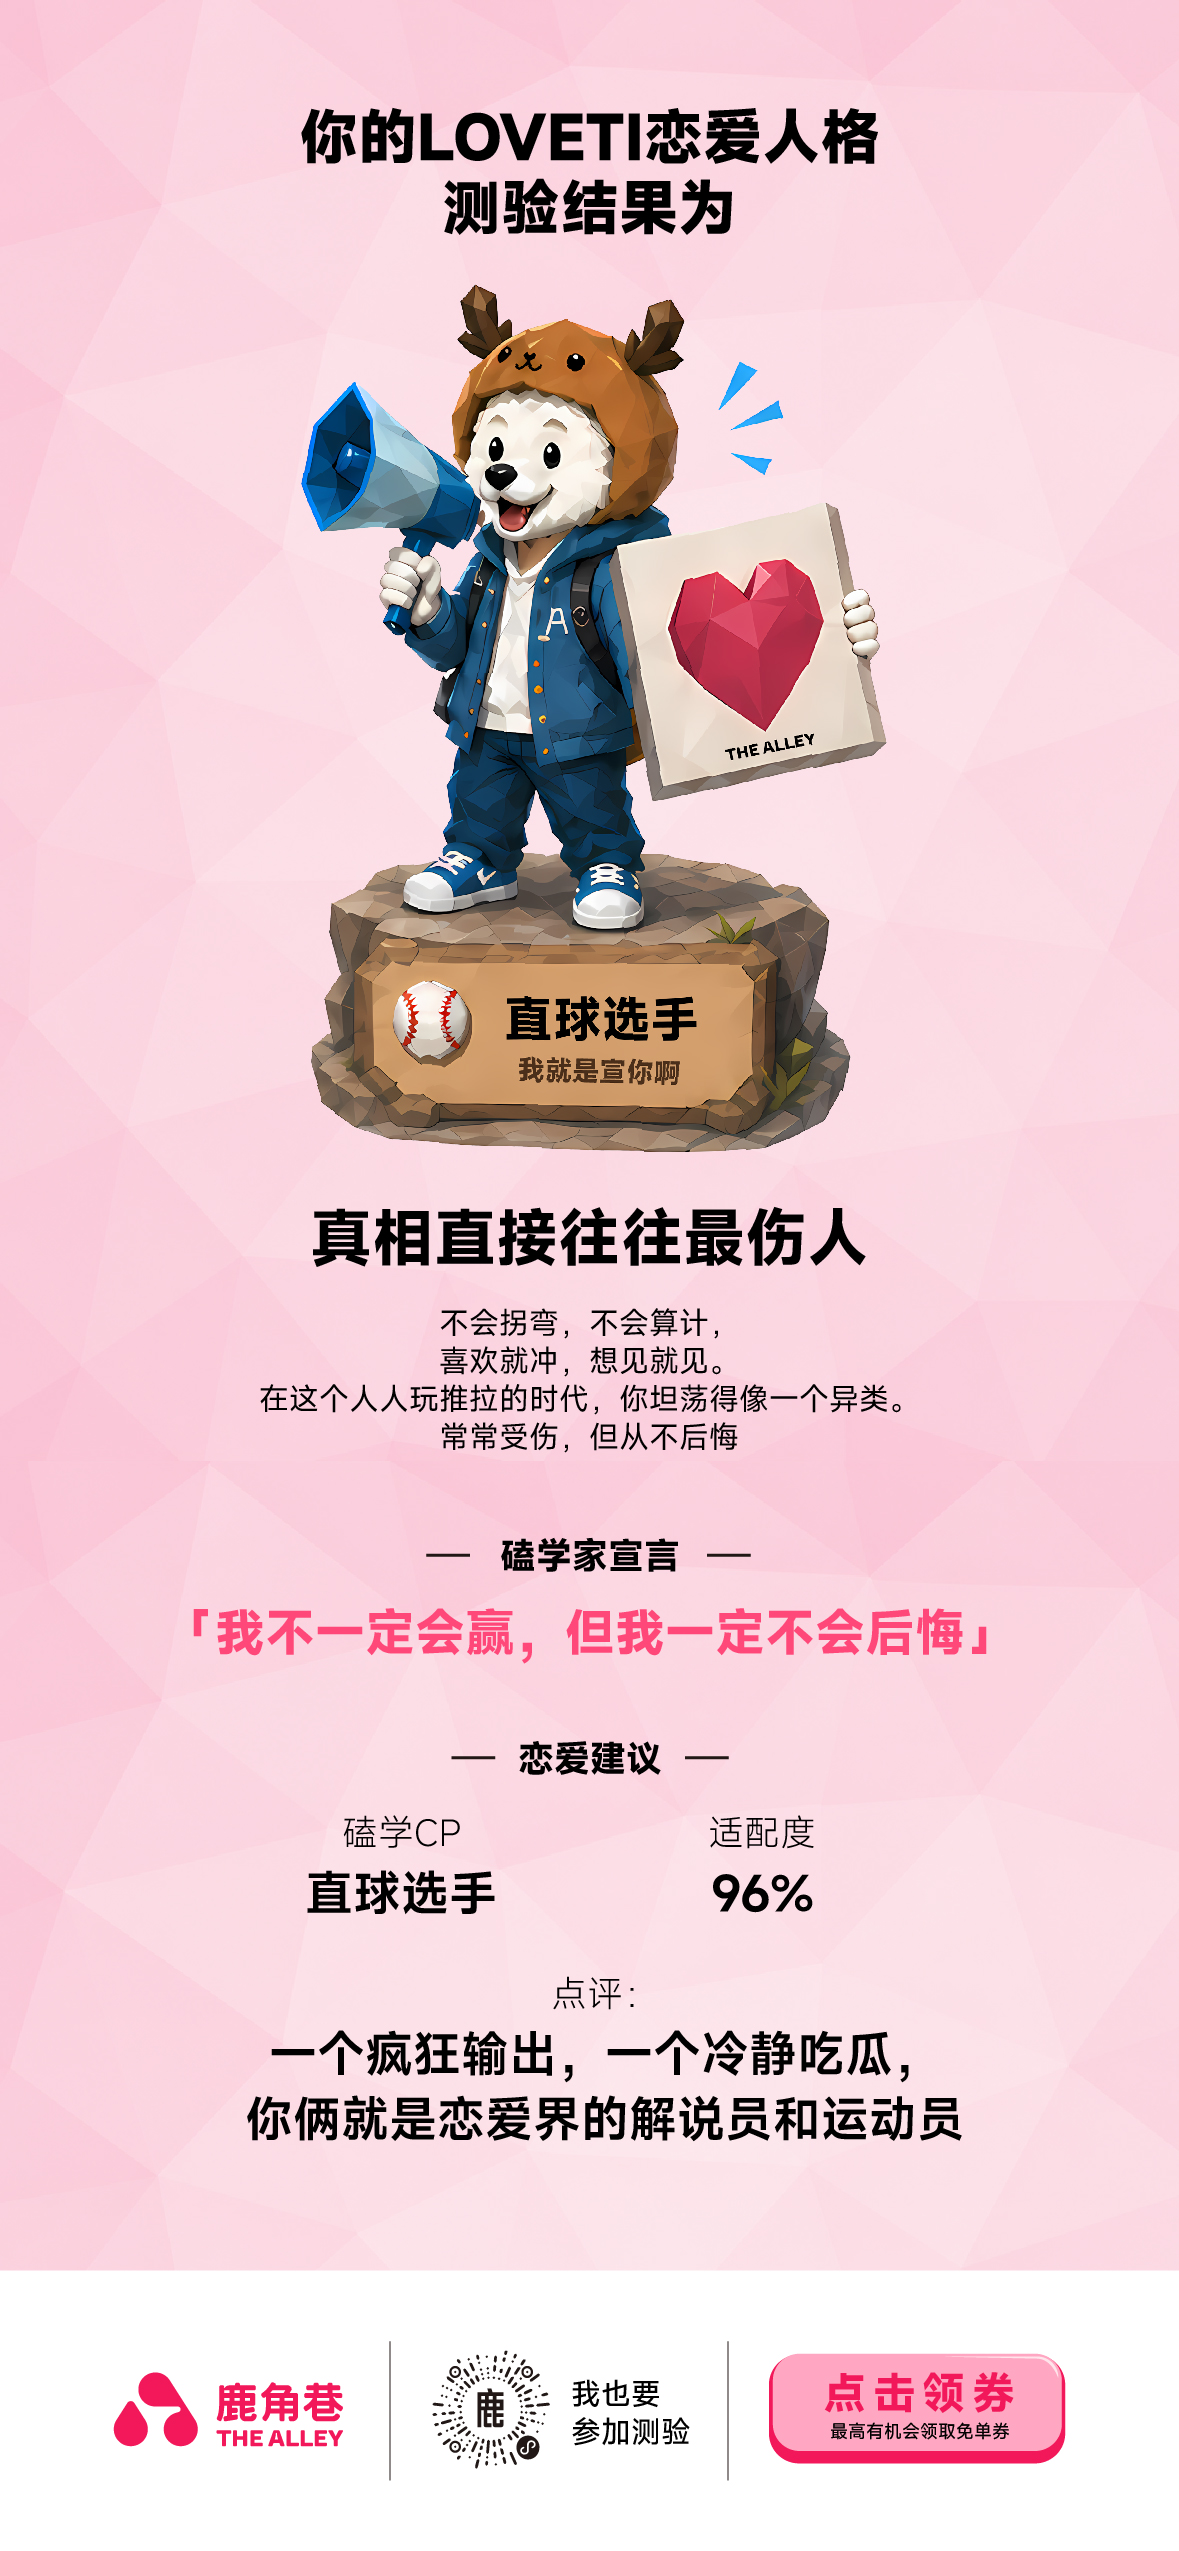
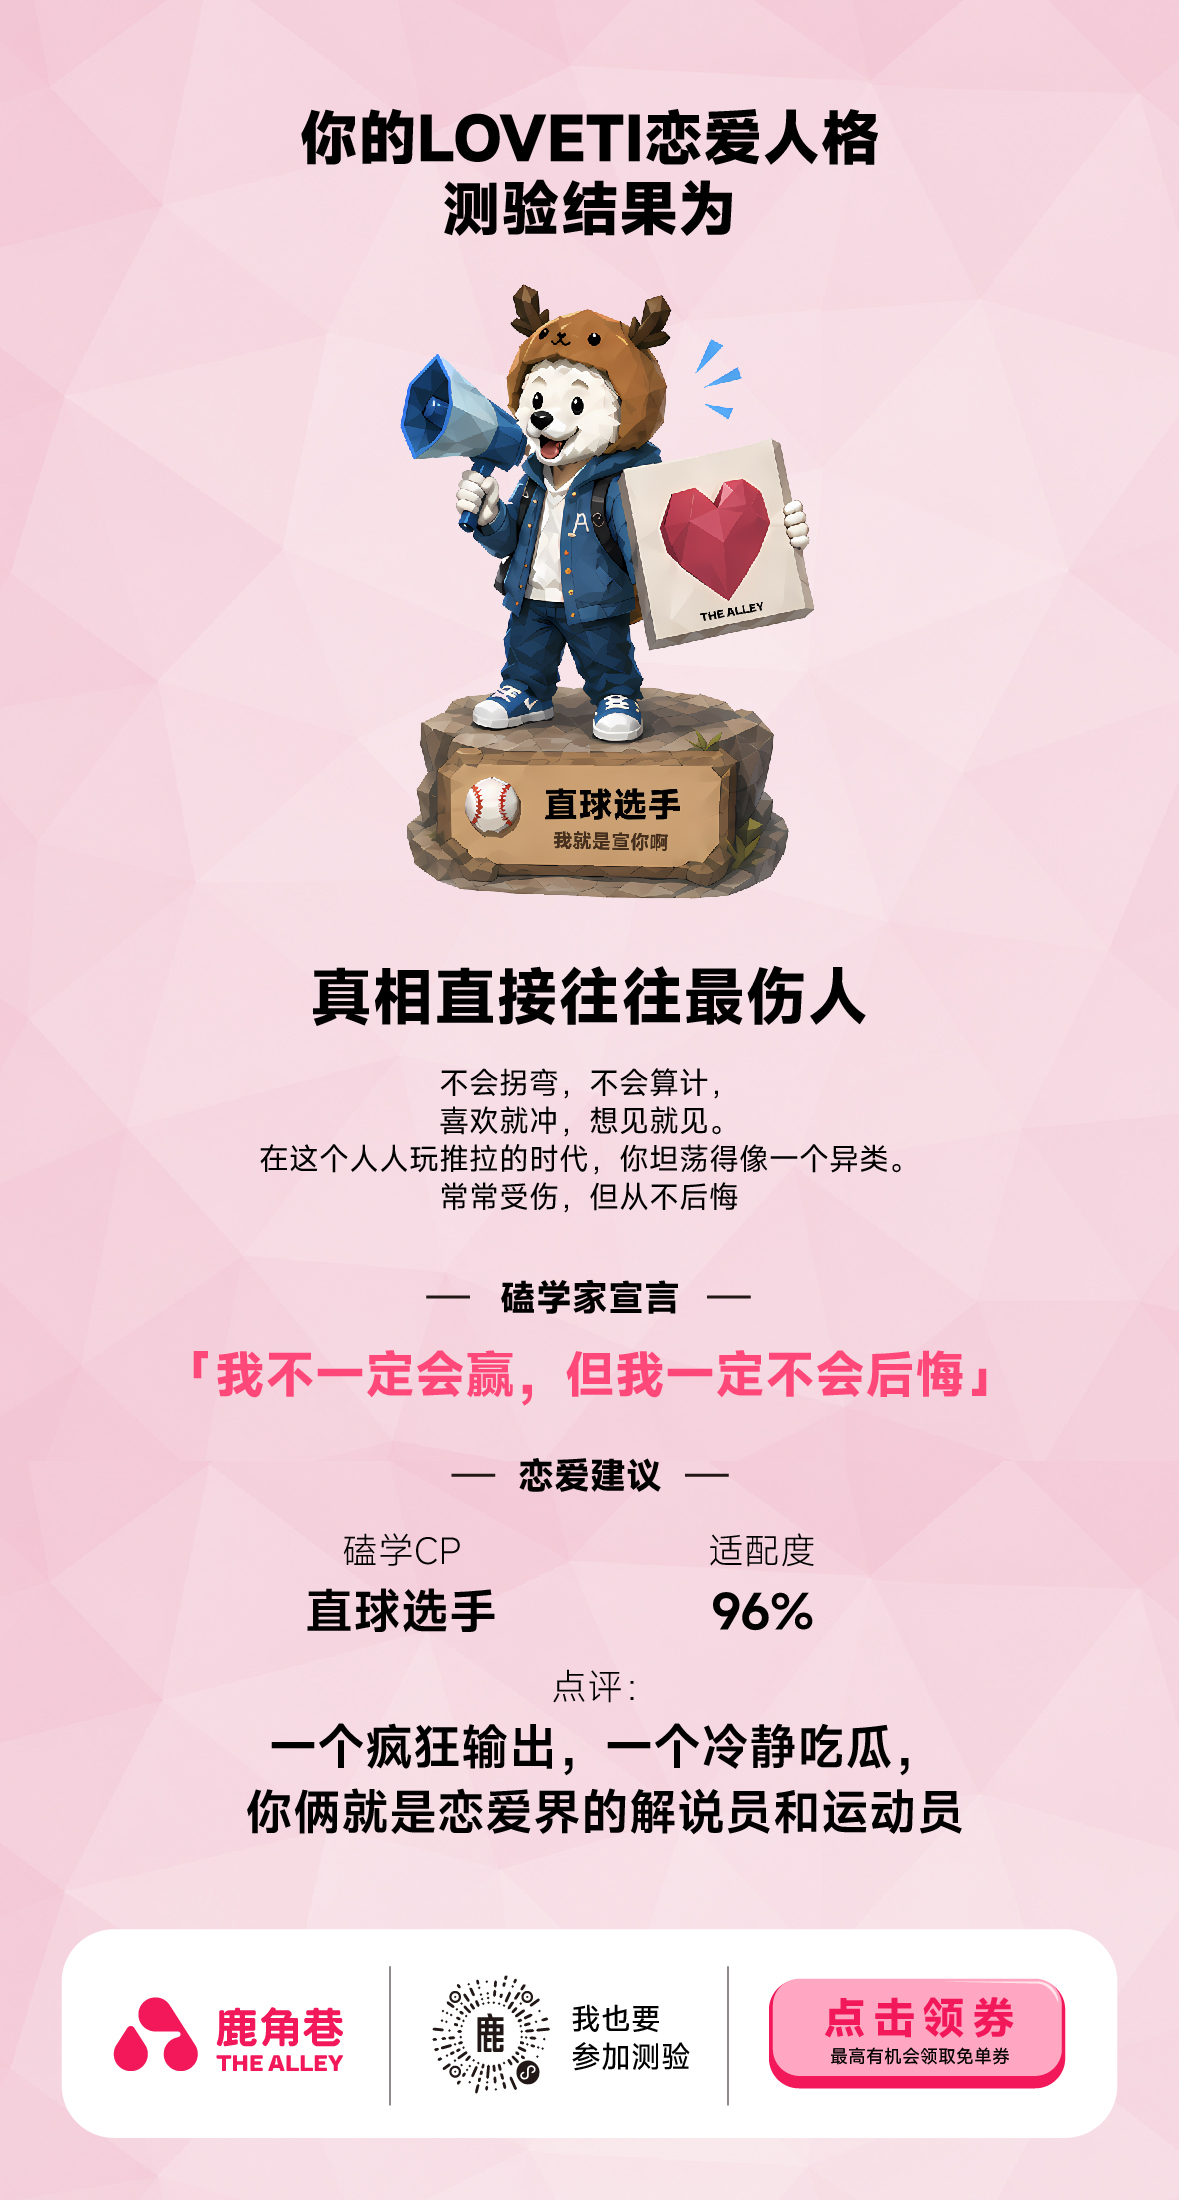
feat: 修改result图片展示

Changed region(s): [[0.1527, 0.0309, 0.855, 0.7109], [0.0, 0.68, 1.0, 1.0]]

diff --git a/src/pages/result/result.vue b/src/pages/result/result.vue
@@ -1,33 +1,22 @@
 <template>
   <view class="result">
-    <scroll-view
-      scroll-y
-      class="result__scroll"
-      @scroll="cancelPosterLongPress"
-    >
-      <view class="result__content">
-        <image class="result__bg" :src="bgImage" mode="aspectFill" />
-        <view class="result__overlay" />
-
-        <view class="result__poster-wrap">
-          <image
-            class="result__poster"
-            :src="personality.image"
-            mode="widthFix"
-            :show-menu-by-longpress="true"
-            @touchstart="startPosterLongPress"
-            @touchmove="handlePosterTouchMove"
-            @touchend="cancelPosterLongPress"
-            @touchcancel="cancelPosterLongPress"
-          />
-          <view
-            class="result__jump-hotspot"
-            :style="jumpHotspotStyle"
-            @click.stop="jumpToMiniProgram"
-          />
-        </view>
-      </view>
-    </scroll-view>
+    <view class="result__poster-wrap">
+      <image
+        class="result__poster"
+        :src="personality.image"
+        mode="aspectFill"
+        :show-menu-by-longpress="true"
+        @touchstart="startPosterLongPress"
+        @touchmove="handlePosterTouchMove"
+        @touchend="cancelPosterLongPress"
+        @touchcancel="cancelPosterLongPress"
+      />
+      <view
+        class="result__jump-hotspot"
+        :style="jumpHotspotStyle"
+        @click.stop="jumpToMiniProgram"
+      />
+    </view>
   </view>
 </template>
 
@@ -36,7 +25,6 @@ import { computed, onBeforeUnmount } from "vue";
 import { onShareAppMessage, onShareTimeline } from "@dcloudio/uni-app";
 import { quizStore } from "@/utils/store";
 import { matchPersonality } from "@/utils/score";
-import bgImage from "@/static/bg.jpg";
 
 const score = computed(() => quizStore.finalScore);
 const personality = computed(() => matchPersonality(score.value));
@@ -265,54 +253,21 @@ onShareTimeline(() => {
   width: 100%;
   min-height: 100vh;
   overflow: hidden;
-  background: #fff;
-
-  &__scroll {
-    width: 100%;
-    height: 100vh;
-    overflow: hidden;
-    background: transparent;
-  }
-
-  &__content {
-    position: relative;
-    width: 100vw;
-    min-height: 100vh;
-    overflow: hidden;
-  }
-
-  &__bg {
-    display: block;
-    position: absolute;
-    inset: 0;
-    width: 100%;
-    height: 100%;
-    min-height: 100vh;
-    z-index: 0;
-    object-fit: cover;
-    object-position: center;
-    pointer-events: none;
-    opacity: 0.5;
-  }
-
-  &__overlay {
-    position: absolute;
-    inset: 0;
-    z-index: 1;
-    pointer-events: none;
-  }
+  background: #000;
 
   &__poster-wrap {
     position: relative;
-    z-index: 2;
     width: 100vw;
+    height: 100vh;
+    overflow: hidden;
   }
 
   &__poster {
     display: block;
     width: 100vw;
-    max-width: none;
-    height: auto;
+    height: 100vh;
+    object-fit: cover;
+    object-position: center;
     -webkit-touch-callout: default;
   }
 
